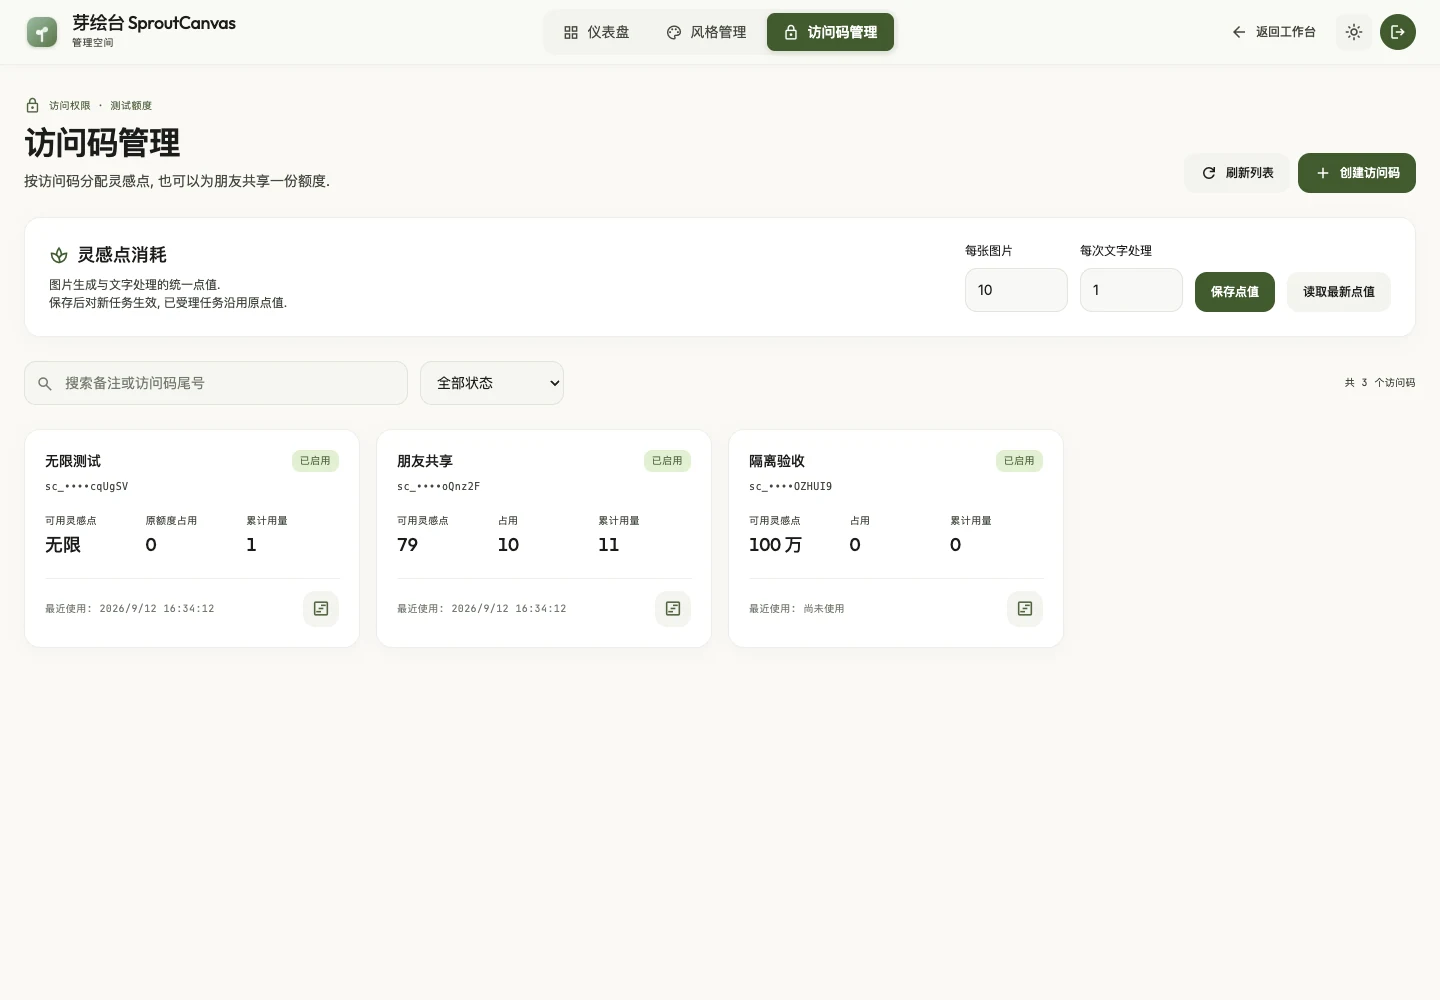
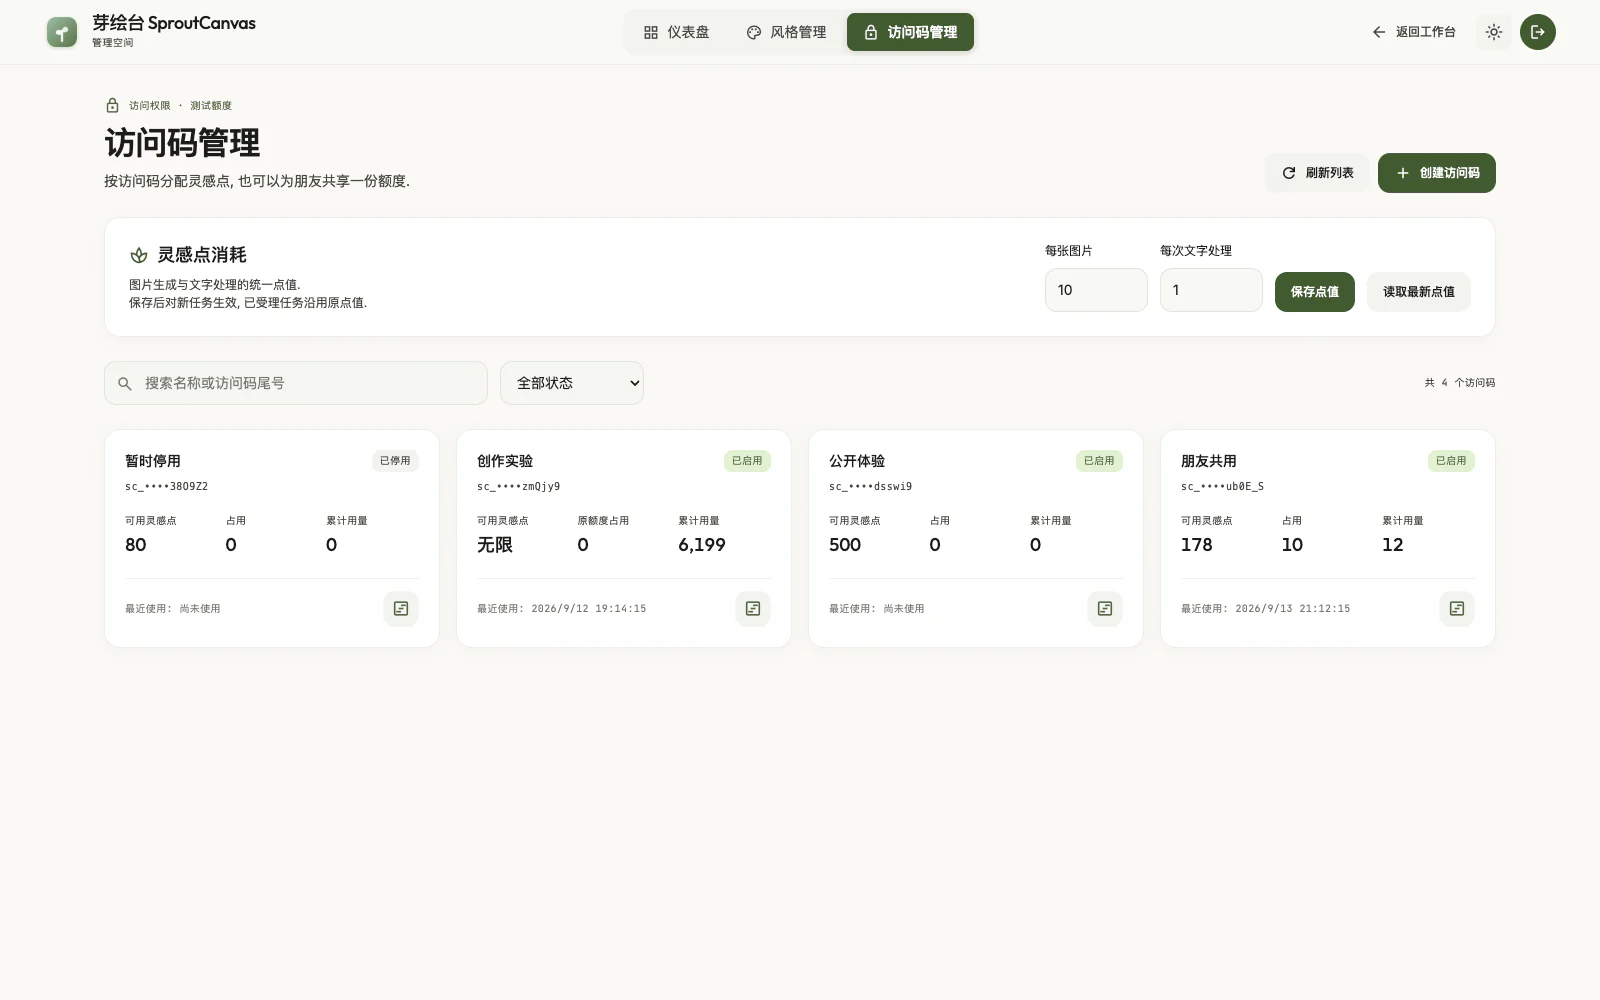
docs: 更新页面预览与在线体验说明

diff --git a/README.md b/README.md
@@ -17,7 +17,9 @@
 </p>
 
 <p>
+  <a href="#在线体验">在线体验</a> |
   <a href="#页面预览">页面预览</a> |
+  <a href="#后台管理">后台管理</a> |
   <a href="#功能一览">功能一览</a> |
   <a href="#快速开始">快速开始</a><br />
   <a href="#开发与验证">开发与验证</a> |
@@ -26,59 +28,109 @@
 
 </div>
 
-[![单图创作: 提示词, 画幅参数与创作画卷](docs/images/studio.webp)](docs/images/studio.webp)
+## 在线体验
 
-<p align="center"><sub>实际界面截图. 画卷与展馆使用仓库演示素材, 系列策划展示待确认的分镜草稿, 灵感点与后台统计为演示数据.</sub></p>
+体验地址: **[draw.sleepypie.top](https://draw.sleepypie.top)**.
+
+无需注册账号, 复制下面的公共测试访问码, 在登录页粘贴后进入工作台:
+
+```text
+sc_J3L9sv4YYnhv5lRbzgzA7PK4gwUbzZoc
+```
+
+此访问码供体验者共用, 额度状态以页面显示为准. 每个浏览器的任务与作品独立, 需要保留的作品请下载. 测试访问码仅用于工作台, 后台使用独立管理员密码.
 
 ## 页面预览
 
-单图创作见上方主预览. 点击图片可查看完整尺寸.
+以下为当前版本的实际界面, 点击图片可查看原尺寸. 作品和参考图使用仓库演示素材, 分镜为待确认草稿, 灵感点与后台统计为隔离演示数据.
+
+### 单图创作
+
+在同一页完成提示词润色, 参考图输入和生成配置. 创作画卷展示最近 4 个记录, 完整作品保存在展馆.
+
+[![单图创作: 提示词润色与撤销, 参考图输入和近期创作画卷](docs/images/studio.webp)](docs/images/studio.webp)
+
+### 工作台登录
+
+使用访问码进入工作台, 无需用户名或注册. 登录页与工作台共用字体, 纸面配色和深浅色主题.
+
+[![工作台登录: 访问码登录与统一的纸面风格](docs/images/workspace-login.webp)](docs/images/workspace-login.webp)
 
 ### 系列策划
+
+先将故事梗概或分镜剧本拆解为可编辑的提示词, 检查后再确认生图. 后续分镜通过首镜参考保持画面关联.
 
 [![系列策划: 故事梗概, 场景模板与待确认分镜](docs/images/series.webp)](docs/images/series.webp)
 
 ### 风格库
 
+按分类或关键词寻找模板, 复制原文提示词, 或直接发送到单图创作. 内容由管理后台维护.
+
 [![风格库: 分类筛选, 示例图与提示词模板](docs/images/styles.webp)](docs/images/styles.webp)
 
 ### 本地展馆
+
+集中查看当前浏览器保存的单图和系列作品, 支持搜索, 筛选, 批量下载与删除.
 
 [![本地展馆: 作品筛选与画稿浏览](docs/images/gallery.webp)](docs/images/gallery.webp)
 
 ### 作品详情
 
+放大检视原图, 查看生成配方和系列版本, 下载图片或进入蒙版编辑. 缩放图片时, 工具按钮保持固定大小.
+
 [![作品详情: 大图检视, 缩放工具与生成配方](docs/images/viewer.webp)](docs/images/viewer.webp)
 
-### 后台登录
+## 后台管理
 
-[![后台登录: 独立管理员入口](docs/images/admin-login.webp)](docs/images/admin-login.webp)
+管理后台提供仪表盘, 风格管理和访问码管理三个入口, 使用独立管理员会话. 普通访问码不会获得管理权限.
 
-### 管理仪表盘
+### 管理员登录
+
+[![管理员登录: 独立密码与统一的工作台视觉风格](docs/images/admin-login.webp)](docs/images/admin-login.webp)
+
+### 仪表盘
+
+查看风格数量, 访问码状态和待核实任务. 创作次数与灵感点用量分别支持今日 / 本月 / 累计切换, 热力图展示最近 365 天的成功结算记录.
 
 [![管理仪表盘: 创作热力图, 时段用量与待核实事项](docs/images/admin-dashboard.webp)](docs/images/admin-dashboard.webp)
 
 ### 风格管理
 
+电脑端以四列卡片展示素材, 点击整张卡片即可编辑. 支持搜索, 上下架, 删除, 以及包含示例图的备份导入导出.
+
 [![风格管理: 素材列表, 上下架和备份](docs/images/style-admin.webp)](docs/images/style-admin.webp)
-
-### 访问码管理
-
-[![访问码管理: 共享灵感点, 点值设置与用量管理](docs/images/access-admin.webp)](docs/images/access-admin.webp)
 
 ### 风格编辑
 
-[![风格编辑: 示例图, 完整提示词与作者](docs/images/style-editor.webp)](docs/images/style-editor.webp)
+图片和完整提示词为必填项, 支持上传, 拖拽或直接粘贴图片. 名称, 分类, 作者, 来源和排序可选, 表单中直接展示全部字段, 保留提示词原文.
+
+[![风格编辑: 图片粘贴区, 完整提示词与作者来源](docs/images/style-editor.webp)](docs/images/style-editor.webp)
+
+### 访问码与灵感点
+
+创建一个或多个访问码, 分配有限或无限额度, 分别设置图片与文字处理的点值. 同一码可多人使用, 共用余额, 各浏览器的任务独立.
+
+[![访问码管理: 图片与文字点值设置, 额度和用量入口](docs/images/access-admin.webp)](docs/images/access-admin.webp)
+
+### 访问码设置
+
+点击卡片打开设置弹窗, 修改用户可见名称, 调整灵感点或切换无限额度, 也可停用, 重置或删除访问码.
+
+[![访问码设置: 名称, 灵感点调整, 无限额度开关与访问权限](docs/images/access-settings.webp)](docs/images/access-settings.webp)
+
+### 用量明细
+
+从卡片上的用量图标打开独立明细, 查看预占, 成功扣除和返还记录. 对结果未知的任务保留预占, 由管理员核对上游结果后结算或返还.
+
+[![用量明细: 灵感点流水与待核实任务](docs/images/access-usage.webp)](docs/images/access-usage.webp)
 
 ## 功能一览
 
 - **单图创作**: 文生图, 参考图生成和提示词润色. 润色支持撤销/恢复并保留手工修改, 空参考区支持上传, 拖拽或粘贴图片. 一次提交 1 / 2 / 4 张, 顺序生成并逐张保存.
 - **蒙版编辑**: 涂抹需要修改的区域, 继承原图配方和画幅, 将局部重绘与参考图生成明确区分.
 - **系列策划**: 绘本, 电商, 视频分镜和品牌 IP 四类模板, 支持 3-8 幕. 先拆解提示词, 检查后确认生成, 后续分镜参考首镜; 支持单镜编辑, 重绘, 版本查看和部分失败续交.
-- **风格库**: 初始包含 36 款 / 6 类开源案例, 支持搜索, 分类和原文复制, 可直接发送到单图创作.
-- **风格后台**: 上传, 拖拽或粘贴示例图, 管理提示词, 作者, 分类和来源, 支持上下架, 删除及包含图片的备份导入导出.
-- **管理仪表盘**: 查看风格与访问码数量, 每日创作热力图和待核实事项. 创作次数与灵感点用量支持今日/本月/累计切换, 可直接进入风格编辑或用量核实.
-- **访问码与灵感点**: 后台创建有限或无限额度访问码, 点击卡片管理设置, 从用量图标查看独立明细. 一码可多人共用, 各浏览器任务独立. 图片和文字分别设置点值, 有限额度按钮显示本次消耗, 无限额度仅在顶栏标注; 明确失败返还, 未知结果可核实处理.
+- **风格库**: 首次启动导入 36 款 / 6 类开源案例, 后续由后台维护, 更新与重启不会覆盖编辑结果. 支持搜索, 分类和原文复制, 可直接发送到单图创作.
+- **独立后台**: 集中维护风格素材, 访问码和灵感点, 通过仪表盘查看活跃度与用量, 在明细中核实异常任务. 详见 [后台管理](#后台管理).
 - **本地展馆**: 检索单图与系列作品, 放大检视, 复用配方, 下载原图或 ZIP, 使用浏览器支持的系统文件分享.
 - **任务与界面**: 创作画卷展示最近 4 个记录, 全部作品在展馆查看. 提供全局任务队列, 等待任务取消和失败任务手动处理; 用户菜单收纳访问名称, 浅色 / 深色主题, 使用帮助与退出, 支持移动端布局.
 
@@ -117,8 +169,6 @@ Docker 默认使用主机端口 `8888`. 持久化目录, 密码规则, HTTPS 与
 
 已有域名时, 按 [正式公网入口](docs/DEPLOY.md#322-正式公网入口) 配置固定网址, 继续复用现有 Docker 部署.
 
-已有共享密码版按 [升级步骤](docs/DEPLOY.md#43-从共享密码版升级) 迁移, 原密码不再作为生成入口.
-
 <details>
 <summary>使用 Node.js 在本机运行</summary>
 
@@ -137,17 +187,17 @@ npm start
 
 ## 使用说明
 
-- **作品与草稿**: 生成作品, 参考图, 蒙版和草稿保存在当前浏览器. 服务端仅短期中转生成结果, 需要长期保留的作品请下载.
+- **作品与草稿**: 生成作品, 参考图, 蒙版和草稿保存在当前浏览器, 并按网站地址隔离, 不会在不同设备或域名之间同步. 服务端仅短期中转生成结果, 需要长期保留的作品请下载.
 - **风格数据**: 管理员维护的风格文本与示例图持久保存到服务端, 更新部署后保留编辑结果. 使用后台备份功能导出完整风格库.
-- **灵感点**: 默认图片 10 点, 文字处理 1 点, 管理员可修改. 先预占再结算, 余额为零仍可登录, 浏览风格和下载已有作品. 不设置访问码有效期, 不提供充值支付.
-- **模型能力**: 视频分镜生成静态图片. 页面参数随通道能力调整, 下载与查看器使用文件的真实格式和尺寸. 当前已测通道按 PNG 提供生成, 请求尺寸作为目标画幅; 不提供 Seed, CFG, 步数或参考权重占位控件. 详见 [真实通道能力验证](docs/REAL_API_VALIDATION.md).
+- **灵感点**: 默认图片 10 点, 文字处理 1 点, 管理员可修改. 有限额度在提交时预占, 成功后扣除, 明确失败或执行前取消返还. 结果未知时保留预占供核实; 刷新或关闭浏览器不会重复提交或自动退点. 无限额度仅记录用量, 不扣减余额. 余额为零仍可登录, 浏览风格和下载已有作品.
+- **模型能力**: 支持 Images / Responses 图像接口和独立文本通道. 页面参数随通道能力调整, 请求尺寸作为目标画幅, 下载与查看器使用文件实际返回的格式和尺寸. 视频分镜只生成静态图片. 具体通道表现见 [真实通道能力验证](docs/REAL_API_VALIDATION.md).
 
 ## 技术栈
 
 - **前端**: React 19, TypeScript 6, Vite 8, Tailwind CSS 3, 本地图标与字体.
 - **服务端**: Node.js 22, 同源 HTTP 服务, Images / Responses 适配, 单 worker 任务队列.
 - **数据**: 服务端使用内置 SQLite 保存任务元信息, 访问码, 点数账本, 会话和风格目录; 浏览器使用 IndexedDB 保存作品与草稿.
-- **部署**: Docker Compose, Node.js 直接运行或单实例 PM2.
+- **部署**: Docker Compose, Node.js 直接运行或单实例 PM2; 可选 Cloudflare Tunnel 提供临时或固定域名的 HTTPS 入口.
 
 API Key 只由服务端持有. 保持单个 Node 进程, 单个容器副本和 `imageConcurrency: 1`. 模块职责与数据流见 [功能清单与架构评估](docs/FEATURE_ARCHITECTURE_REVIEW.md).
 
